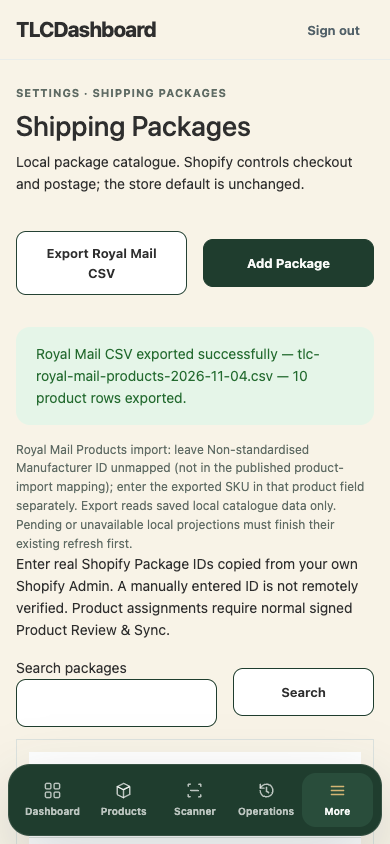
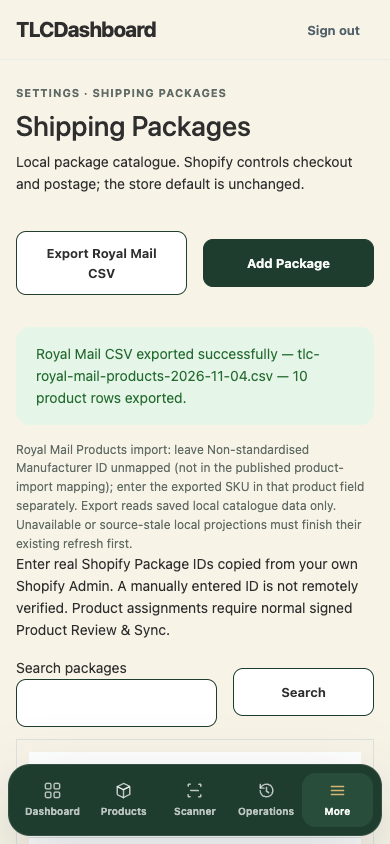
Keep Royal Mail local export independent of Shopify status refresh

Changed region(s): [[0.0308, 0.6161, 0.4615, 0.6469], [0.6769, 0.6161, 0.9231, 0.6469], [0.4923, 0.6161, 0.6462, 0.6469]]

diff --git a/app/templates/packaging/index.html b/app/templates/packaging/index.html
@@ -3,7 +3,7 @@
 {% block content %}
 <header class="page-header"><div><p class="eyebrow">Settings · Shipping Packages</p><h1>Shipping Packages</h1><p>Local package catalogue. Shopify controls checkout and postage; the store default is unchanged.</p></div><div class="page-actions"><button type="button" class="btn btn-outline-primary" data-royal-mail-export="{{ url_for('packaging.royal_mail_csv') }}">Export Royal Mail CSV</button><a class="btn btn-primary" href="{{ url_for('packaging.new') }}">Add Package</a></div></header>
 <p data-export-feedback role="status" aria-live="polite" hidden></p>
-<p class="field-helper">Royal Mail Products import: leave Non-standardised Manufacturer ID unmapped (not in the published product-import mapping); enter the exported SKU in that product field separately. Export reads saved local catalogue data only. Pending or unavailable local projections must finish their existing refresh first.</p>
+<p class="field-helper">Royal Mail Products import: leave Non-standardised Manufacturer ID unmapped (not in the published product-import mapping); enter the exported SKU in that product field separately. Export reads saved local catalogue data only. Unavailable or source-stale local projections must finish their existing refresh first.</p>
 <p>Enter real Shopify Package IDs copied from your own Shopify Admin. A manually entered ID is not remotely verified. Product assignments require normal signed Product Review &amp; Sync.</p>
 {% with messages=get_flashed_messages(with_categories=true) %}{% for category,message in messages %}<p class="alert alert-{{ category }}">{{ message }}</p>{% endfor %}{% endwith %}
 <form class="page-actions" method="get"><label>Search packages<input class="form-control" name="q" value="{{ request.args.get('q','') }}"></label><button class="btn btn-outline-primary">Search</button></form>

diff --git a/tests/test_royal_mail_export.py b/tests/test_royal_mail_export.py
@@ -184,13 +184,12 @@ def test_csv_escaping_utf8_formula_protection_missing_values_and_no_listing_fall
     assert row['Product Name'].startswith("'=HYPERLINK")
 
 
-@pytest.mark.parametrize('problem',['pending','revision','scan','missing_view','duplicate','missing_sku','unsafe_sku','invalid_weight'])
+@pytest.mark.parametrize('problem',['revision','scan','missing_view','duplicate','missing_sku','unsafe_sku','invalid_weight'])
 def test_invalid_or_stale_evidence_and_identities_fail_without_partial_download(export_world,problem):
     app,client,*_=export_world
     with app.app_context():
         products=Product.query.filter_by(product_type='simple').all();product=products[0]
         job=db.session.get(ShopifyPublishJob,product.id)
-        if problem=='pending':job.view_pending=True
         if problem=='revision':job.view_revision='stale'
         if problem=='scan':job.scan_operation_id=None
         if problem=='missing_view':job.view_json='{}'
@@ -202,6 +201,24 @@ def test_invalid_or_stale_evidence_and_identities_fail_without_partial_download(
     response=client.get('/packaging/royal-mail.csv')
     assert response.status_code==409 and response.json['error']
     assert 'Content-Disposition' not in response.headers
+
+
+def test_shopify_status_invalidation_does_not_invalidate_scan_bound_local_export(export_world):
+    from app.catalogue_views import invalidate
+    app,client,*_=export_world
+    before=client.get('/packaging/royal-mail.csv')
+    with app.app_context():
+        product_id=Product.query.filter_by(product_type='simple').first().id
+        invalidate(product_id=product_id)
+        job=db.session.get(ShopifyPublishJob,product_id)
+        job.state='recovery_required';job.error='Uncertain package stage remains protected'
+        db.session.commit()
+        assert job.view_pending
+    after=client.get('/packaging/royal-mail.csv')
+    assert after.status_code==200 and after.data==before.data
+    with app.app_context():
+        job=db.session.get(ShopifyPublishJob,product_id)
+        assert job.state=='recovery_required' and job.view_pending and job.error
 
 
 def test_filename_date_empty_export_authentication_and_package_page(core):

diff --git a/tests/docker_royal_mail_smoke.py b/tests/docker_royal_mail_smoke.py
@@ -14,6 +14,16 @@ smoke=previous.smoke
 archival="sku='SMOKE-PACKAGE-1',product_type='simple',source_relpath='Fictional/Smoke'"
 assert smoke.IMPORT.count(archival)==1
 smoke.IMPORT=smoke.IMPORT.replace(archival,archival+",catalogue_status='missing'",1)
+# Inherited PTY smoke can observe EOF just before the child is reapable. Keep
+# its original deadline and every password assertion; wait within that deadline
+# instead of treating this tiny process-exit window as a recovery timeout.
+reap="  waited,status=os.waitpid(pid,os.WNOHANG)\n  if not waited:\n   os.kill(pid,9)"
+assert smoke.CHECK.count(reap)==1
+smoke.CHECK=smoke.CHECK.replace(reap,
+    "  waited,status=os.waitpid(pid,os.WNOHANG)\n"
+    "  while not waited and time.monotonic()<deadline:\n"
+    "   time.sleep(.02);waited,status=os.waitpid(pid,os.WNOHANG)\n"
+    "  if not waited:\n   os.kill(pid,9)",1)
 smoke.CHECK=smoke.CHECK.replace("'hs_code_persistence':True", "'royal_mail_export_persistence':True,'hs_code_persistence':True")
 smoke.IMPORT+='''
 with app.app_context():
@@ -42,7 +52,9 @@ with sqlite3.connect('/app/instance/site.db') as connection:
  before_changes=connection.total_changes
  assert json.loads(connection.execute('select view_json from shopify_publish_job where product_id=?',(hs_product_id,)).fetchone()[0])['authored']['customs_description']=='Greeting card'
  try:response=opener.open('http://127.0.0.1:7485/packaging/royal-mail.csv',timeout=5)
- except urllib.error.HTTPError as error:raise AssertionError(error.read().decode()) from None
+ except urllib.error.HTTPError as error:
+  diagnostic=connection.execute('select requested_revision,view_revision,view_pending,scan_operation_id,view_json from shopify_publish_job where product_id=?',(hs_product_id,)).fetchone()
+  raise AssertionError(error.read().decode()+' fixture evidence: '+repr(diagnostic)) from None
  rows=list(csv.DictReader(io.StringIO(response.read().decode('utf-8'))))
  assert response.headers['X-Export-Row-Count']==str(len(rows))
  assert len(rows)==1 and rows[0]['Customs Description']=='Greeting card'

diff --git a/app/royal_mail_export.py b/app/royal_mail_export.py
@@ -81,7 +81,11 @@ def generate(*, at=None):
             except (TypeError, ValueError):
                 saved = {}
             authored = saved.get('authored')
-            if (not job or job.view_pending or job.view_revision != job.requested_revision
+            # view_pending is a Shopify *status* refresh flag, also set by
+            # readback/recovery events. It does not invalidate an otherwise
+            # complete, scan-bound local export snapshot. Actual local refresh
+            # ownership/revision/checkpoint checks remain mandatory below.
+            if (not job or job.view_revision != job.requested_revision
                     or scans.get(job.scan_operation_id) != 'succeeded'
                     or not isinstance(authored, dict) or not authored.get('collection_type')
                     or not product.resolved_row_json):

diff --git a/docs/ROYAL_MAIL_EXPORT.md b/docs/ROYAL_MAIL_EXPORT.md
@@ -109,7 +109,7 @@ truncation. Empty catalogues produce a header-only CSV and zero-row notification
 ## Source freshness and read-only boundary
 
 Export requires a complete saved authored projection, matching saved/requested
-revision and succeeded retained scan operation. Pending/unavailable projections
+revision and succeeded retained scan operation. Unavailable/source-stale projections
 or an active source refresh block export with the product/action explained.
 It does not attempt to repair evidence or run a scan. Review the product's
 existing source/scan status and use its ordinary scoped action if genuinely needed.
@@ -119,7 +119,11 @@ Unobserved external edits cannot be discovered without reading files; this route
 deliberately does not do so. External file changes must go through the existing
 normal refresh workflow before relying on the export. Normal editor saves already
 perform that refresh. Shopify comparison health, package recovery and Draft/Live
-publishing approval do not grant or deny local export authority.
+publishing approval do not grant or deny local export authority. In particular,
+`view_pending` alone is a Shopify status-refresh flag, not proof of stale local
+data: a retained, current scan-bound local snapshot remains exportable while
+Shopify comparison/status refresh is pending. Recovery state and receipts are
+not changed by the export.
 
 Tests deny source-document reads, gallery inspection and external requests, and
 observe SQL to ensure the download performs no INSERT/UPDATE/DELETE/schema writes.
@@ -181,15 +185,25 @@ records. Only the two ornament variants appear, not a parent row.
   save and CSV checks, 2 and 4 workers, disposable `/app/instance`/catalogue/output,
   `--network none`; automatic publishing remains disabled in those fixtures.
 
-Results: 349 bounded Python tests passed. The final focused export/schema run
-passed 47 tests (overlaps that regression run; do not add the counts together).
-31 JavaScript checks and both browser layouts passed. Two- and four-worker
+Results: 350 bounded Python tests passed, including the focused export/schema
+tests. 31 JavaScript checks and both browser layouts passed. Two- and four-worker
 Docker checks passed. No remaining failures in these selected suites; the entire
 repository test suite was not run. Initial new test defects were fixed without
 production workarounds: a detached ORM test object, an unrelated fixture product
 being restored by a shared scan, and an old identity-only package-history record
 incorrectly labelled as a sellable source product. The latter correctly blocked
 export until the fixture was marked archival; no scan evidence was fabricated.
+
+An intermediate four-worker run rejected a refreshing projection; two repetitions
+passed unchanged. The complete failed predicate was not retained in that first
+run, so its historical cause is not asserted. Inspection separately identified
+an incorrect dependency on Shopify's `view_pending` flag; the local-only export
+contract was corrected and tested through a real status invalidation while
+Recovery Required remains intact. All source revision/scan guards remain.
+An inherited password CLI smoke also exposed a PTY EOF/process-reaping timing
+window. Only this probe's collector now waits within the original deadline for
+child exit; all original authentication assertions still run, and no production
+authentication code changed. Final bounded regressions and Docker checks passed.
 
 No claim is made of a real Click & Drop import, iPhone Safari download, live
 customs save or production Shopify acceptance during development.
